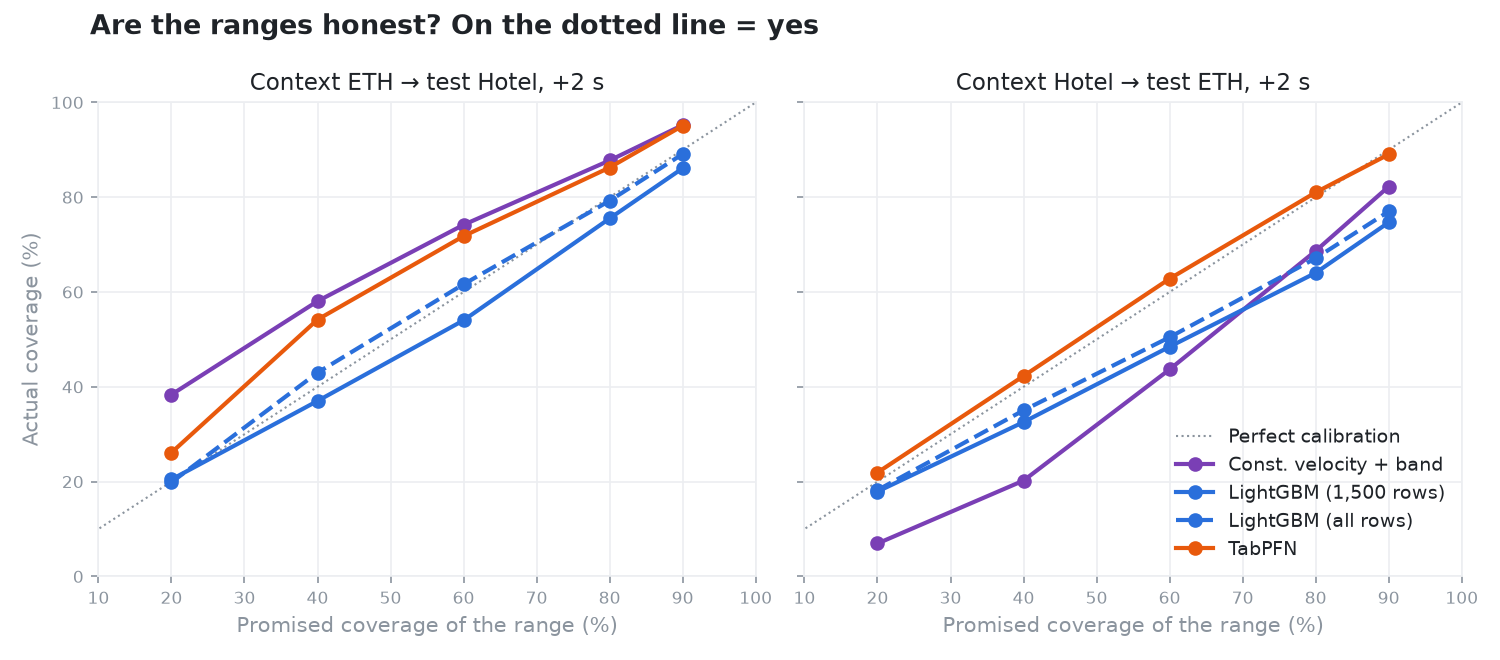
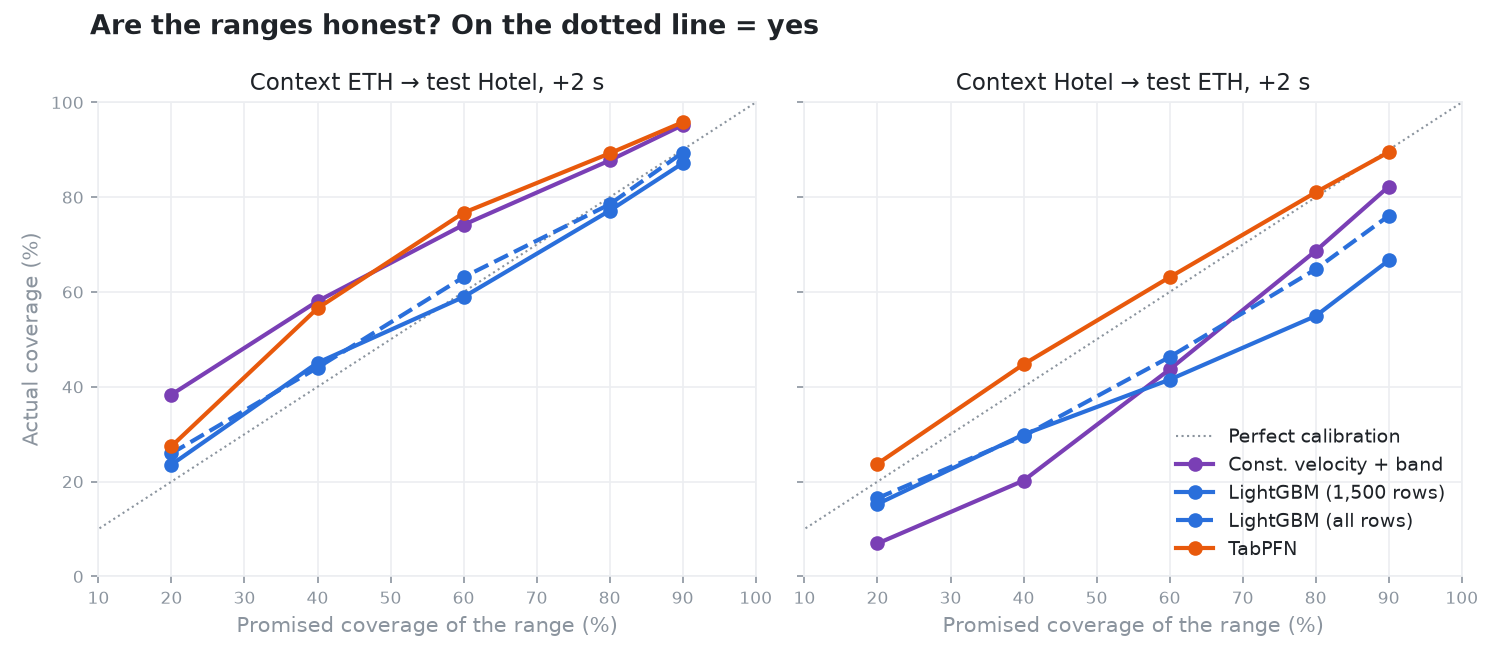
CTO follow-ups F1, F2, F4; F3 check script
- F1: run_adapt records joint coverage of the 2D box and plots it under the error panel
- F2: live context rows built from the full history (Kalman state matches the queries),
  then limited to the last 25 s
- F4: sensor noise seeded per agent (seed, agent_id) over absolute steps, so parity holds
  when agents enter or leave; new parity test with an agent entering mid-episode
- tools/check_fast.py: TabPFN-3.5-Fast (1 estimator) against default, cross-scene

diff --git a/run_adapt.py b/run_adapt.py
@@ -93,19 +93,26 @@ def main():
                         Q = m.predict_quantiles(F.X_of(q), (0.1, 0.5, 0.9))
                     Y = q[["ddx", "ddy"]].to_numpy()
                     err = np.linalg.norm(Q[:, :, 1] - Y, axis=1)
-                    cov = ((Y >= Q[:, :, 0]) & (Y <= Q[:, :, 2])).mean(axis=1)
-                    for e, c, s in zip(err, cov, q.since_switch):
+                    inside = (Y >= Q[:, :, 0]) & (Y <= Q[:, :, 2])
+                    cov, joint = inside.mean(axis=1), inside.all(axis=1)      # per-axis; the 2D box itself
+                    for e, c, j, s in zip(err, cov, joint, q.since_switch):
                         rows.append(dict(episode=ep, t=t, since=s, strategy=sname, model=mname, err=e, cov=c,
-                                         n_ctx=len(ctx), thin=thin))
+                                         joint=float(j), n_ctx=len(ctx), thin=thin))
         print(f"episode {ep} done ({time.perf_counter() - t0:.0f} s)")
     res = pd.DataFrame(rows)
     Path("results").mkdir(exist_ok=True); res.to_csv("results/adapt.csv", index=False)
     res["bin"] = pd.cut(res.since, [b[0] for b in BINS] + [BINS[-1][1]], labels=[b[2] for b in BINS], right=False)
     tab = res.groupby(["model", "strategy", "bin"], observed=True).err.mean().unstack("bin").round(3)
-    print(tab)
-    print(res.groupby(["model", "strategy"]).agg(err=("err", "mean"), cov=("cov", "mean")).round(3))
+    jtab = res.groupby(["model", "strategy", "bin"], observed=True).joint.mean().unstack("bin").round(3)
+    print("mean error (m)
+", tab)
+    print("joint coverage of the 10-90% box (per-axis 80% -> ~64% if independent)
+", jtab)
+    print(res.groupby(["model", "strategy"]).agg(err=("err", "mean"), cov=("cov", "mean"), joint=("joint", "mean")).round(3))
 
-    fig, axes = plt.subplots(1, 2, figsize=(11, 4.2), sharey=True, facecolor="white")
+    fig, axes2 = plt.subplots(2, len(a.models), figsize=(5.5 * len(a.models), 7.6), sharey="row", facecolor="white",
+                              squeeze=False)
+    axes = axes2[0]
     colors = {"global": "#8b949e", "knn": "#2a6fdb", "recent": "#7a3fb5", "mix": "#e8590c"}
     labels = {"global": "Random rows, other episodes", "knn": "Similar situations", "recent": "This crowd only",
               "mix": "Mix: this crowd + similar"}
@@ -121,6 +128,17 @@ def main():
             r = tab.loc[("lgbm_frozen", "global")]
             ax.plot(list(r.index.astype(str)), r.values, marker="s", lw=1.5, ls="--", color="#1f2328",
                     label="Frozen, all rows of the other scene")
+    for ax, mname in zip(axes2[1], a.models):
+        V.style_axes(ax, equal=False)
+        for s in STRATS:
+            if (mname, s) in jtab.index:
+                r = jtab.loc[(mname, s)]
+                ax.plot(list(r.index.astype(str)), 100 * r.values, marker="o", lw=2, color=colors[s])
+        if mname == "lgbm" and ("lgbm_frozen", "global") in jtab.index:
+            r = jtab.loc[("lgbm_frozen", "global")]
+            ax.plot(list(r.index.astype(str)), 100 * r.values, marker="s", lw=1.5, ls="--", color="#1f2328")
+        ax.set_xlabel(xlabel, color=V.C_MUTED)
+    axes2[1][0].set_ylabel("Box holds the truth (%)", color=V.C_MUTED)
     axes[0].set_ylabel(f"Mean error at +{a.h:g} s (m)", color=V.C_MUTED)
     axes[-1].legend(frameon=False, fontsize=9, labelcolor=V.C_INK)
     fig.suptitle("Which context rows, after the crowd changes", fontsize=13, weight="bold", color=V.C_INK, x=0.06, ha="left")

diff --git a/foresight/core/features.py b/foresight/core/features.py
@@ -91,8 +91,8 @@ def build_rows(tracks, obstacles, meta, horizons=(1.0, 2.0), row_every=0.5, nois
     label_from="observed": targets from the noisy, Kalman-filtered future positions, as a robot
     would label its own live rows. "truth" (default) uses simulator / annotated positions.
 
-    Noise is drawn from `seed` in array order, so the same seed gives identical observations for
-    a growing history (prefix property): live queries and offline rows see the same noise."""
+    Noise is drawn per agent from (seed, agent_id) over absolute time steps, so a growing history
+    gives identical observations, also when agents enter or leave: live queries match offline rows."""
     dt = float(meta["dt"])
     k = max(1, round(OBS_STEP / dt))
     hsteps = [round(h / dt) for h in horizons]
@@ -123,7 +123,11 @@ def build_rows(tracks, obstacles, meta, horizons=(1.0, 2.0), row_every=0.5, nois
         is_ego = info.loc[agents, "is_ego"].to_numpy().astype(bool)
         ego = int(np.flatnonzero(is_ego)[0]) if is_ego.any() else None
         # observe: noise + forward Kalman filter per agent
-        Po = Pt + rng.normal(0, noise, Pt.shape)
+        # noise seeded per agent over absolute time steps: identical observations for a growing history
+        # even when agents enter or leave (a shared (S, A, 2) draw would shift with the agent set)
+        Po = Pt.copy()
+        for a_i, aid in enumerate(agents):
+            Po[:, a_i] += np.random.default_rng([seed, int(aid)]).normal(0, noise, (S, 2))
         Ps = np.full_like(Pt, np.nan); Vs = np.full_like(Pt, np.nan)
         for a in range(A):
             Ps[:, a], Vs[:, a] = _kalman_cv(Po[:, a], dt, r=max(noise, 0.05))

diff --git a/tools/check_fast.py b/tools/check_fast.py
@@ -1,0 +1,31 @@
+"""F3: is TabPFN-3.5-Fast with 1 estimator as good as the default model across scenes?
+
+Same 1,500 context rows and the same test rows for both, ETH->Hotel and Hotel->ETH, at +2 s:
+error, per-axis coverage of 10-90%, joint coverage of the 5-95% box, width, pinball.
+
+    python tools/check_fast.py
+"""
+import sys
+import time
+from pathlib import Path
+
+import numpy as np
+
+sys.path.insert(0, str(Path(__file__).resolve().parents[1]))
+from evaluate import QS, scores  # noqa: E402
+from foresight.core import features as F  # noqa: E402
+from foresight.core import models as M  # noqa: E402
+from run_offline import rows_for  # noqa: E402
+
+HZ = (1.2, 2.0, 4.8)
+for src, dst in (("eth", "hotel"), ("hotel", "eth")):
+    tr = rows_for(f"data/{src}", 0.0, horizons=HZ); te = rows_for(f"data/{dst}", 0.0, horizons=HZ)
+    tr, te = tr[np.isclose(tr.h, 2.0)], te[np.isclose(te.h, 2.0)]
+    ctx, t = tr.sample(1500, random_state=0), te.sample(min(600, len(te)), random_state=0)
+    for name, kw in (("default", {}), ("fast, 1 est", {"fast": True, "n_estimators": 1})):
+        t0 = time.perf_counter()
+        m = M.make("tabpfn", **kw).fit(F.X_of(ctx), ctx[["ddx", "ddy"]].to_numpy())
+        s = scores(m.predict_quantiles(F.X_of(t), QS), t[["ddx", "ddy"]].to_numpy())
+        print(f"{src}->{dst} {name:<12} err {s['err_mean']:.3f}  per-axis80 {100 * s['cov80']:.0f}%  "
+              f"joint box90 {100 * s['joint90']:.0f}%  width80 {s['width80']:.2f}  pinball {s['pinball']:.4f}  "
+              f"({time.perf_counter() - t0:.0f} s)", flush=True)

diff --git a/tests/test_parity.py b/tests/test_parity.py
@@ -37,3 +37,18 @@ def test_observed_labels_differ_from_truth_only_by_noise(episode):
     obs = F.build_rows(tracks, obst, meta, horizons=(1.0,), noise=0.1, seed=3, label_from="observed")
     d = np.hypot(tru.true_x - obs.true_x, tru.true_y - obs.true_y)
     assert 0 < d.mean() < 0.3          # filtered observation error, not a different target
+
+
+def test_parity_with_agent_entering_mid_episode(episode):
+    """Agents that appear later (doorway, street, real data) must not shift anyone's noise."""
+    tracks, obst, meta = episode
+    tr = tracks[~((tracks.agent_id == 3) & (tracks.t < 4.0))]       # agent 3 enters at t = 4 s
+    off = F.build_rows(tr, obst, meta, horizons=(1.0,), noise=0.1, seed=3)
+    for t in [2.0, 3.0, 5.0, 6.0]:
+        t_row = off.t.unique()[np.argmin(np.abs(off.t.unique() - t))]
+        live = F.build_rows(tr[tr.t <= t_row + 1e-9], obst, meta, horizons=(1.0,), noise=0.1, seed=3, query_only=True)
+        a = off[np.isclose(off.t, t_row)].set_index(["agent_id", "h"])[FEATS]
+        b = live.set_index(["agent_id", "h"])[FEATS]
+        common = a.index.intersection(b.index)
+        assert len(common) > 0
+        np.testing.assert_allclose(a.loc[common].to_numpy(), b.loc[common].to_numpy(), atol=1e-9)

diff --git a/run_closed.py b/run_closed.py
@@ -82,10 +82,10 @@ class Predictor:
 
     def predict(self, q, t, hist_df, obst_df, meta, seed):
         if self.live and t - self.last_fit >= self.args.refit - 1e-9:
-            recent = hist_df[hist_df.t >= t - LIVE_WINDOW]
-            live = F.build_rows(recent, obst_df, meta, horizons=self.args.hz, noise=self.args.noise, seed=seed,
+            # full history, so the Kalman state matches the queries; then keep the last LIVE_WINDOW s
+            live = F.build_rows(hist_df, obst_df, meta, horizons=self.args.hz, noise=self.args.noise, seed=seed,
                                 label_from="observed")
-            live = live[live.t_known <= t + 1e-9]
+            live = live[(live.t_known <= t + 1e-9) & (live.t >= t - LIVE_WINDOW)]
             ctx = C.select(q, self.bank_obj, live=live if len(live) else None, budget=self.args.context,
                            mix=(0.6, 0.3, 0.1))
             self.model, self.last_fit, self.n_live = self._fit(ctx), t, int(len(live))
